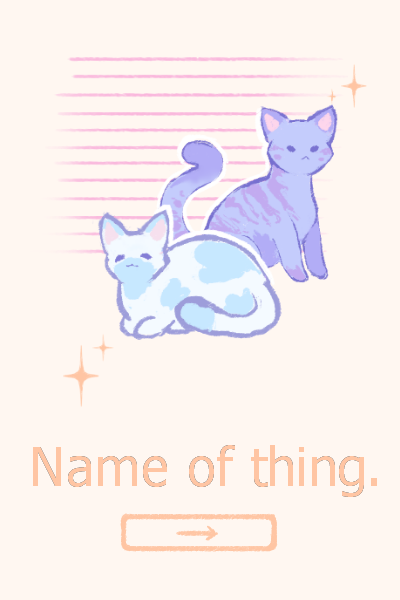
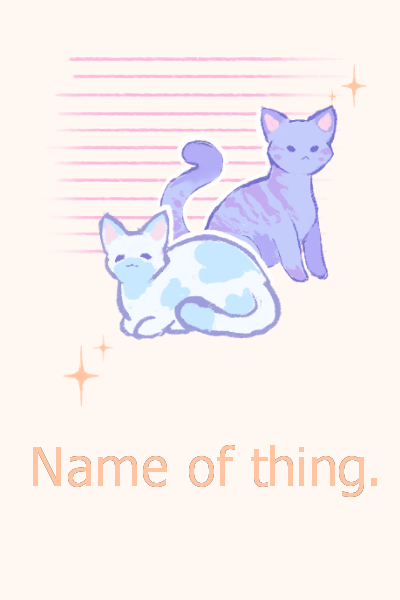
...

Changed region(s): [[0.3, 0.84, 0.69, 0.93]]

diff --git a/src/popup.html b/src/popup.html
@@ -15,8 +15,6 @@ making it look stylish can be a cool extension.
 
 <style>
 body {
-  font-family: "Segoe UI", "Lucida Grande", Tahoma, sans-serif;
-        font-size: 100%;
   position: relative;
   vertical-align:middle;
   background-image: url(/icons/catpop.png);
@@ -38,6 +36,14 @@ input.button-add {
     vertical-align: middle; /* align the text vertically centered */
     margin-top:440px;
     margin-left: 95px;
+}
+catDexpage {
+  position: relative;
+  vertical-align:middle;
+  background-image: url(/icons/catpage.png);
+  background-size: 100% 100%;
+  min-width: 350px;
+  min-height: 525px;
 }
 
 </style >

diff --git a/src/popup.js b/src/popup.js
@@ -20,4 +20,6 @@ document.addEventListener('DOMContentLoaded', function () {
 });
 function catDex(){
     alert("Your button was pressed");
+    var div = document.getElementById('button'); 
+    div.remove();  
 }; 
